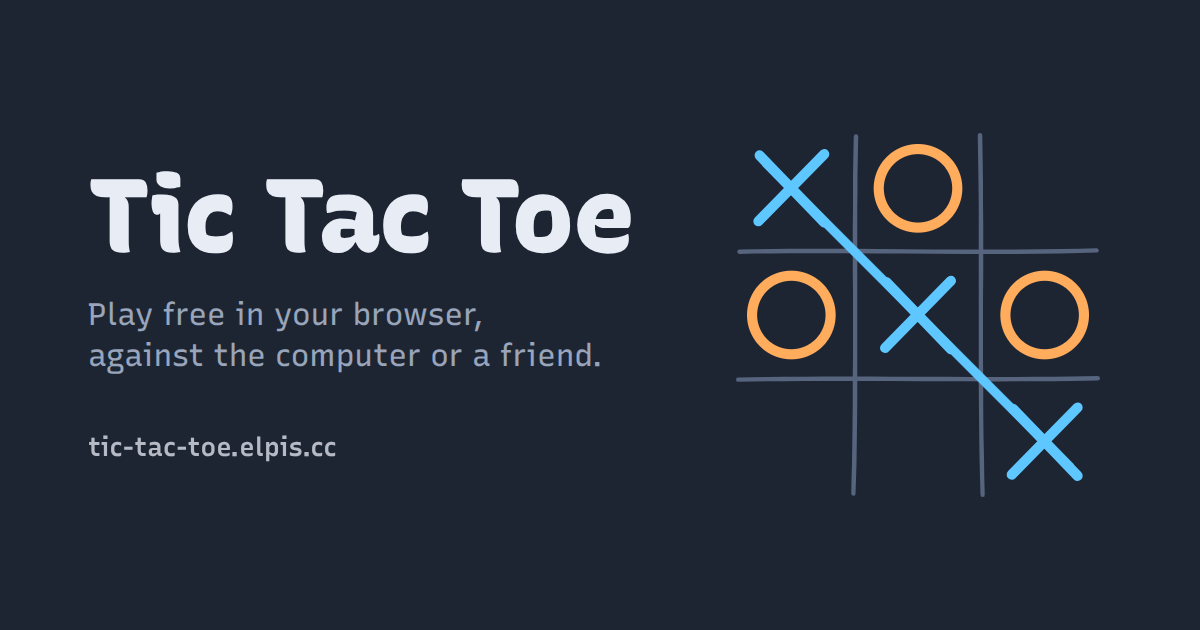
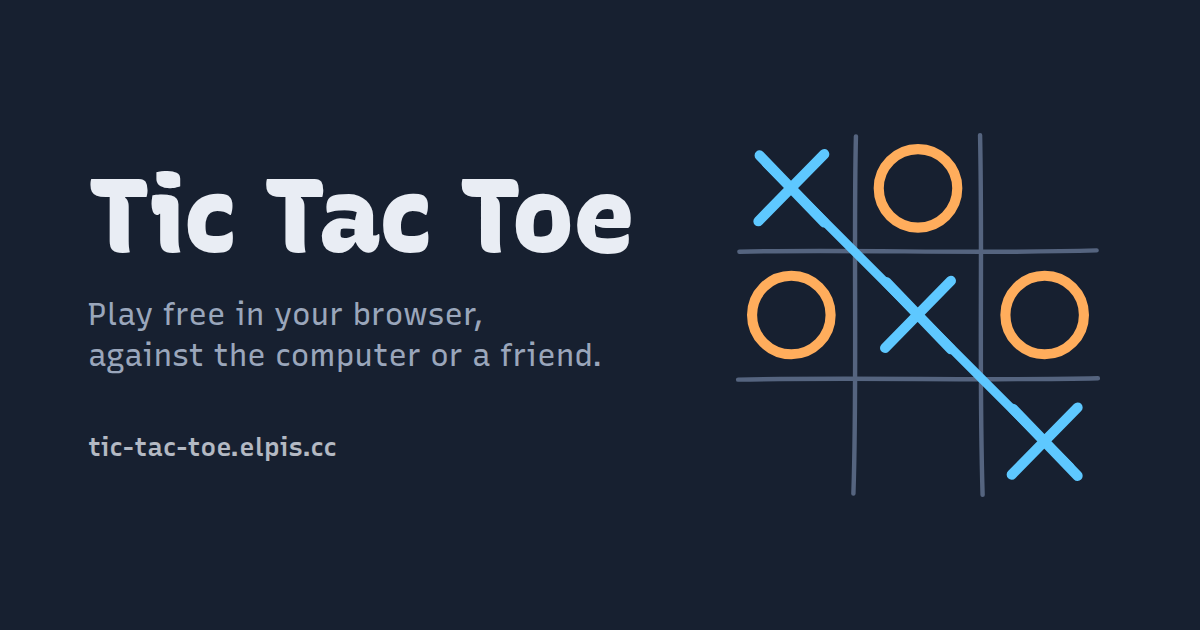
docs: add share image source and regenerate it with true colours
docs/og-image.html (noindex) holds the source and the headless Chrome command. The previous og-image.png had a colour-shifted background; this render matches #172030.

Changed region(s): [[0.0617, 0.6937, 0.2775, 0.7238], [0.1542, 0.4825, 0.185, 0.5127], [0.0925, 0.5429, 0.1233, 0.573]]

diff --git a/docs/og-image.html b/docs/og-image.html
@@ -1,0 +1,84 @@
+<!doctype html>
+<html lang="en">
+<head>
+<meta charset="utf-8">
+<title>Share image source</title>
+<meta name="robots" content="noindex">
+<!--
+  Source for assets/og-image.png (1200x630). To regenerate, from the repo root:
+    python3 -m http.server 8000
+    google-chrome --headless --hide-scrollbars --window-size=1200,630 \
+      --screenshot=assets/og-image.png http://localhost:8000/docs/og-image.html
+-->
+<style>
+  @font-face {
+    font-family: "Recursive";
+    font-weight: 400 900;
+    font-display: block;
+    src: url("../assets/fonts/recursive-latin.woff2") format("woff2");
+  }
+  * { margin: 0; padding: 0; box-sizing: border-box; }
+  html, body { width: 1200px; height: 630px; background: #172030; overflow: hidden; }
+  body {
+    font-family: "Recursive", sans-serif;
+    color: #e9edf4;
+    display: grid;
+    grid-template-columns: 1fr 380px;
+    align-items: center;
+    gap: 48px;
+    padding: 0 92px 0 88px;
+  }
+  .copy { display: flex; flex-direction: column; gap: 28px; }
+  h1 {
+    white-space: nowrap;
+    font-size: 104px;
+    font-weight: 850;
+    font-variation-settings: "CASL" 1;
+    line-height: 0.95;
+    letter-spacing: -0.015em;
+  }
+  p {
+    font-size: 31px;
+    line-height: 1.35;
+    color: #9aa6bb;
+  }
+  .url {
+    margin-top: 26px;
+    font-size: 26px;
+    font-weight: 600;
+    color: #e9edf4;
+    opacity: 0.75;
+  }
+  svg { width: 380px; height: 380px; overflow: visible; }
+</style>
+</head>
+<body>
+  <div class="copy">
+    <h1>Tic Tac Toe</h1>
+    <p>Play free in your browser,<br>against the computer or a friend.</p>
+    <div class="url">tic-tac-toe.elpis.cc</div>
+  </div>
+  <svg viewBox="0 0 300 300" fill="none" stroke-linecap="round">
+    <g stroke="#55647f" stroke-width="3.5">
+      <path d="M101 9 C99 90 102 205 99 291" />
+      <path d="M199 8 C201 105 198 195 201 292" />
+      <path d="M9 100 C105 98 195 102 291 99" />
+      <path d="M8 201 C100 199 205 202 292 200" />
+    </g>
+    <!-- cells are 100 units; marks use the game's 100x100 mark geometry -->
+    <g stroke-width="8">
+      <g stroke="#5ec8ff">
+        <path d="M25 24 L76 77 M76 23 L24 76" />
+        <path transform="translate(100 100)" d="M25 24 L76 77 M76 23 L24 76" />
+        <path transform="translate(200 200)" d="M25 24 L76 77 M76 23 L24 76" />
+      </g>
+      <g stroke="#ffad5c">
+        <circle cx="150" cy="50" r="31" />
+        <circle cx="50" cy="150" r="31" />
+        <circle cx="250" cy="150" r="31" />
+      </g>
+    </g>
+    <line x1="30" y1="30" x2="270" y2="270" stroke="#5ec8ff" stroke-width="7" />
+  </svg>
+</body>
+</html>

diff --git a/README.md b/README.md
@@ -31,7 +31,7 @@ python3 -m http.server 8000
 | `assets/` | Favicons, app icons, the social share image and the self-hosted Recursive font (`fonts/`, SIL OFL) |
 | `site.webmanifest`, `robots.txt`, `sitemap.xml` | SEO and install metadata |
 | `google*.html` | Google Search Console verification files. Keep them. |
-| `docs/` | Planning notes |
+| `docs/` | Planning notes, and `og-image.html`, the source of the share image (the regenerate command is in its header comment) |
 | `CNAME` | Custom domain for GitHub Pages |
 
 ## Deploy
